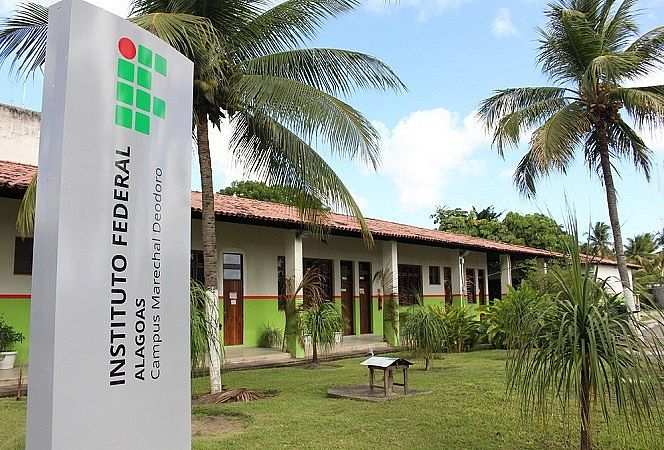
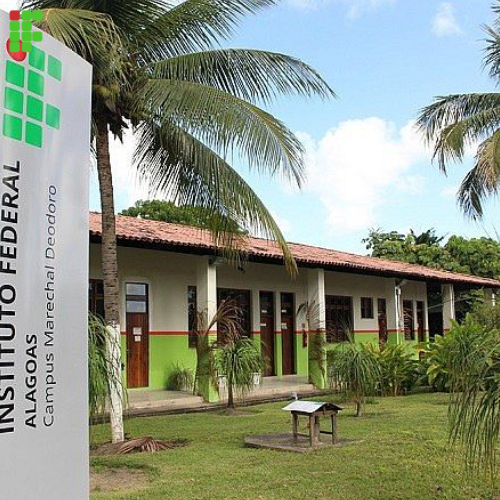
Cadastro Funcional

diff --git a/main.py b/main.py
@@ -1,3 +1,4 @@
+import random
 from tkinter import *
 import os
 import time
@@ -23,7 +24,7 @@ class Funcoes():
         self.enSenhaCd.delete(0, END)        
     def DontRegistry(self):
         self.lbMes = Label(self.frame01, text= "Usuario/Senha não cadastrado", background= "#202020", fg="#FF0000") 
-        self.lbMes.place(relx= 0.15, rely= 0.2, relwidth= 0.7, relheight= 0.075)
+        self.lbMes.place(relx= 0.29, rely= 0.23, relwidth= 0.42, relheight= 0.02)
     def Login(self):
         self.vfEm = self.enEmail.get()+".txt"
         self.vfSe = self.enSenha.get()
@@ -41,14 +42,25 @@ class Funcoes():
                 
         else:
             self.DontRegistry()
+    def BgAle(self):
+        self.i = random.randint(0, 2)
         
+        self.img = PhotoImage()
+        if self.i == 0:
+            self.img.config(file= "images/ifal/img1.png")
+        if self.i == 1:
+            self.img.config(file= "images/ifal/img2.png")
+        if self.i == 2:
+            self.img.config(file= "images/ifal/img3.png")
 
 class Application(Funcoes):
     def __init__(self):
         self.win = win
         self.AppConfig()
         self.Colors()
+        self.Images()
         self.Frames()
+        self.BgAle()
         self.Widgets()
         self.win.mainloop()
     def LogConfig(self):
@@ -63,6 +75,10 @@ class Application(Funcoes):
         self.lbLog = Label(self.frame04, text= "Login Efetuado")
         self.lbLog.place(relx= 0.15, rely= 0.42, relwidth= 0.7, relheight= 0.075)
         self.win3.mainloop()        
+    
+    def Images(self):
+        self.fundo = PhotoImage(file="images/fundo_if.png")
+    
     def CadastroConfig(self):
         self.win2 = Tk()
         self.win2.title("Cadastro")
@@ -93,6 +109,8 @@ class Application(Funcoes):
         self.btnSair = Button(self.frame03, background= "#FF0000", bd= 0, text= "Sair", relief= FLAT, fg= "white",
                              font= ("arial", 15, "bold"), command= self.Quit)
         self.btnSair.place(relx= 0.51, rely= 0.61, relwidth= 0.34, relheight= 0.12)
+        self.line2 = Label(self.frame03, bg="#09E376")
+        self.line2.place(relx=0, rely=0, relwidth= 0.02, relheight= 1)
         
         self.win2.mainloop()  
     def AppConfig(self):
@@ -103,6 +121,7 @@ class Application(Funcoes):
     def Colors(self):
         self.cl1 = "#3E3E3E"   
     def Frames(self):
+        
         self.frame01 = Frame(self.win, bg= "#202020")
         self.frame01.place(relx= 0.55, rely=0, relwidth= 0.45, relheight= 1)
         
@@ -110,30 +129,36 @@ class Application(Funcoes):
         self.frame02.place(relx= 0, rely=0, relwidth= 0.55, relheight= 1)        
     def Widgets(self):
         
-        self.lbMsg = Label(self.frame01, background= "#202020", text= f"Login {' '*29}", fg= "White", font= ("arial", 18, "bold"))
-        self.lbMsg.place(relx= 0.15, rely= 0.26, relwidth= 0.7, relheight= 0.1)
+        self.bg = Label(self.frame01, image= self.fundo)
+        self.bg.place(relx=0, rely=0, relwidth=1, relheight=1)
+        
+        self.lbMsg = Label(self.frame01, background= "#202020", text= f"Login", fg= "White", font= ("arial", 18, "bold"))
+        self.lbMsg.place(relx= 0.15, rely= 0.27, relwidth= 0.16, relheight= 0.06)
         
         self.lbEmail = Label(self.frame01, background= self.cl1, text= f"E-mail {' '*81}", font= ("arial black", 7), fg= "white")
-        self.lbEmail.place(relx= 0.15, rely= 0.365, relwidth= 0.7, relheight= 0.025)
+        self.lbEmail.place(relx= 0.15, rely= 0.345, relwidth= 0.7, relheight= 0.025)
         self.enEmail = Entry(self.frame01, bd= 0, background= self.cl1, font=("arial", 12), fg="white")
-        self.enEmail.place(relx= 0.15, rely= 0.39, relwidth= 0.7, relheight= 0.075)
+        self.enEmail.place(relx= 0.15, rely= 0.37, relwidth= 0.7, relheight= 0.075)
         
         self.lbSenha = Label(self.frame01, background= self.cl1, text= f"Senha {' '*81}", font= ("arial black", 7), fg= "white")
-        self.lbSenha.place(relx= 0.15, rely= 0.505, relwidth= 0.7, relheight= 0.025)
+        self.lbSenha.place(relx= 0.15, rely= 0.485, relwidth= 0.7, relheight= 0.025)
         self.enSenha = Entry(self.frame01, bd= 0, background= self.cl1, font=("arial", 12), fg= "white", show= "*")
-        self.enSenha.place(relx= 0.15, rely= 0.53, relwidth= 0.7, relheight= 0.075)
+        self.enSenha.place(relx= 0.15, rely= 0.51, relwidth= 0.7, relheight= 0.075)
         
         self.btnLog = Button(self.frame01, background= "#09E376", bd= 0, text= "Entrar", relief= FLAT, fg= "white",
                              font= ("arial", 15, "bold"), command= self.Login)
-        self.btnLog.place(relx= 0.15, rely= 0.65, relwidth= 0.34, relheight= 0.1)
+        self.btnLog.place(relx= 0.15, rely= 0.62, relwidth= 0.34, relheight= 0.1)
         
         self.btnCad = Button(self.frame01, background= "white", bd= 0, text= "Cadastrar", relief= FLAT, fg= "#202020",
                              font= ("arial", 15, "bold"), command= self.CadastroConfig)
-        self.btnCad.place(relx= 0.51, rely= 0.65, relwidth= 0.34, relheight= 0.1)
+        self.btnCad.place(relx= 0.51, rely= 0.62, relwidth= 0.34, relheight= 0.1)
+        
+        self.btnEsq = Button(self.frame01, background= "#202020", bd= 0, text= "Esqueci minha senha", relief= FLAT, fg= "#2FB2FF",
+                             activebackground= "#202020", activeforeground= "white")
+        self.btnEsq.place(relx= 0.35, rely= 0.75, relwidth= 0.28, relheight= 0.025)
         
         # FRAME 02 #
-        self.img = PhotoImage(file= "images/ifal/img2.png")
-        self.imagens = Label(self.frame02, image=self.img)
+        self.imagens = Label(self.frame02, image= self.img)
         self.imagens.place(relx= 0, rely= 0, relwidth= 1, relheight= 1)
         
         self.line = Label(self.frame02, background= "#09E376")
